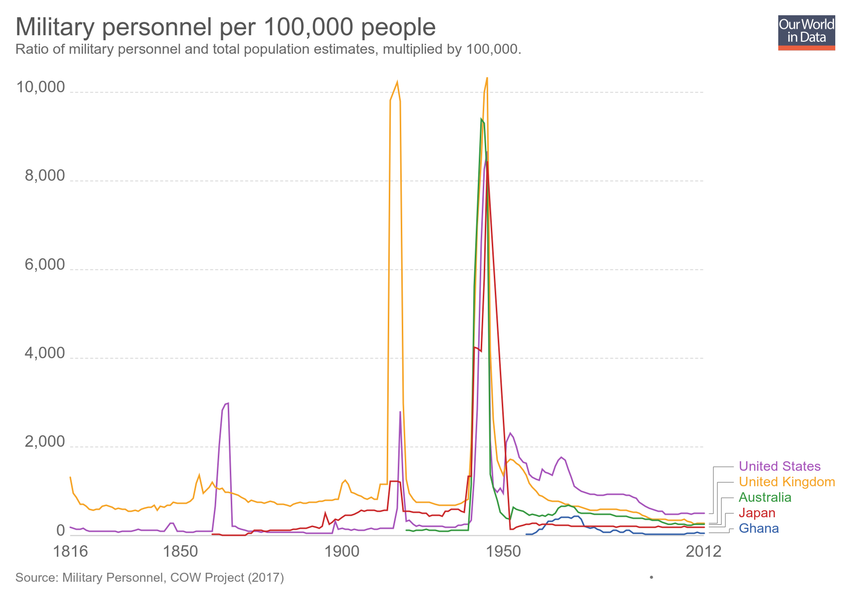
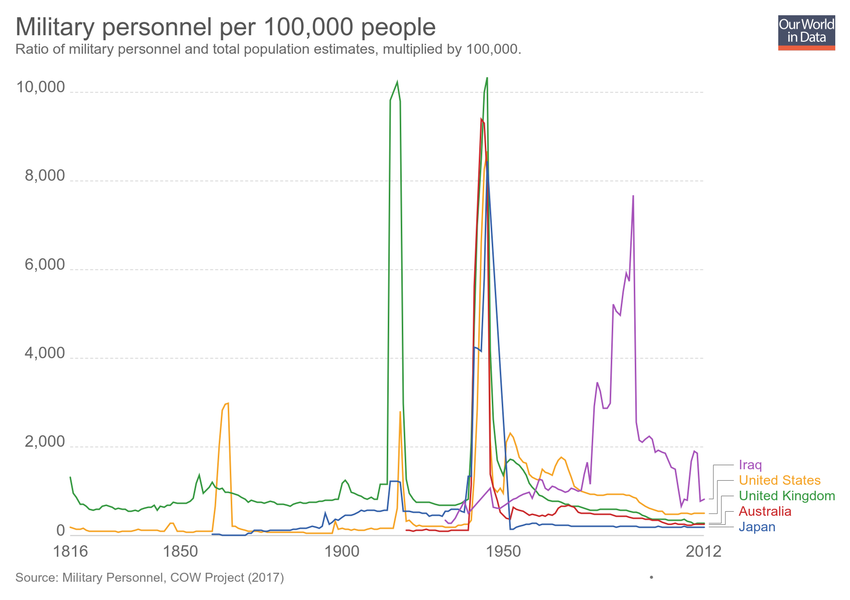
Updating chart military-personnel-relative-to-total-population

diff --git a/grapher/hiv-expenditure.html b/grapher/hiv-expenditure.html
@@ -1,4 +1,4 @@
-<!doctype html><html><head><meta name="viewport" content="width=device-width, initial-scale=1" /><title>HIV expenditure on prevention and treatment - Our World in Data</title><meta name="description" content="Total expenditure on HIV/AIDS prevention and treatment, measured in US$." /><link rel="canonical" href="https://ourworldindata.org/grapher/hiv-expenditure" /><meta property="fb:app_id" content="1149943818390250" /><meta property="og:url" content="https://ourworldindata.org/grapher/hiv-expenditure" /><meta property="og:title" content="HIV expenditure on prevention and treatment" /><meta property="og:description" content="Total expenditure on HIV/AIDS prevention and treatment, measured in US$." /><meta property="og:image" content="https://ourworldindata.org/grapher/exports/hiv-expenditure.png?v=1" /><meta property="og:image:width" content="850" /><meta property="og:image:height" content="600" /><meta property="og:site_name" content="Our World in Data" /><meta name="twitter:card" content="summary_large_image" /><meta name="twitter:site" content="@OurWorldInData" /><meta name="twitter:creator" content="@OurWorldInData" /><meta name="twitter:title" content="HIV expenditure on prevention and treatment" /><meta name="twitter:description" content="Total expenditure on HIV/AIDS prevention and treatment, measured in US$." /><meta name="twitter:image" content="https://ourworldindata.org/grapher/exports/hiv-expenditure.png?v=1" /><style>
+<!doctype html><html><head><meta name="viewport" content="width=device-width, initial-scale=1" /><title>HIV expenditure - Our World in Data</title><meta name="description" content="Country-reported HIV expenditure, measured in current US$ per year. The year of reported expenditure varies by country; this information can be found by hovering over a given country." /><link rel="canonical" href="https://ourworldindata.org/grapher/hiv-expenditure" /><meta property="fb:app_id" content="1149943818390250" /><meta property="og:url" content="https://ourworldindata.org/grapher/hiv-expenditure" /><meta property="og:title" content="HIV expenditure" /><meta property="og:description" content="Country-reported HIV expenditure, measured in current US$ per year. The year of reported expenditure varies by country; this information can be found by hovering over a given country." /><meta property="og:image" content="https://ourworldindata.org/grapher/exports/hiv-expenditure.png?v=1" /><meta property="og:image:width" content="850" /><meta property="og:image:height" content="600" /><meta property="og:site_name" content="Our World in Data" /><meta name="twitter:card" content="summary_large_image" /><meta name="twitter:site" content="@OurWorldInData" /><meta name="twitter:creator" content="@OurWorldInData" /><meta name="twitter:title" content="HIV expenditure" /><meta name="twitter:description" content="Country-reported HIV expenditure, measured in current US$ per year. The year of reported expenditure varies by country; this information can be found by hovering over a given country." /><meta name="twitter:image" content="https://ourworldindata.org/grapher/exports/hiv-expenditure.png?v=1" /><style>
         html, body {
             height: 100%;
             margin: 0;
@@ -20,19 +20,8 @@
         }
     </style><noscript><style>
                     figure { display: none !important; }
-                </style></noscript><link rel="stylesheet" href="https://ourworldindata.org/grapher/assets/commons.bundle.62f8703dfc964fd3975c.css" /><link rel="preload" href="/grapher/data/variables/96328.json?v=1" as="fetch" crossorigin /></head><body class="singleChart"><figure data-grapher-src="/grapher/hiv-expenditure"></figure><noscript id="fallback"><img src="/grapher/exports/hiv-expenditure.svg" /><p>Interactive visualization requires JavaScript</p></noscript><script src="https://cdn.polyfill.io/v2/polyfill.min.js?features=es6,fetch"></script><script src="https://ourworldindata.org/grapher/assets/commons.bundle.62f8703dfc964fd3975c.js"></script><script src="https://ourworldindata.org/grapher/assets/charts.bundle.dcf65b68eddaba4c6a58.js"></script><script>
-        var jsonConfig = {"map":{"projection":"World","targetYear":2015,"variableId":96328,"timeTolerance":3,"baseColorScheme":"YlGnBu","isManualBuckets":true,"colorSchemeLabels":[],"colorSchemeValues":[50000000,100000000,150000000,200000000,250000000,300000000,350000000,400000000],"defaultProjection":"World","colorSchemeMinValue":0,"customNumericColors":[null,null],"customCategoryColors":{},"customCategoryLabels":{},"customHiddenCategories":{}},"tab":"map","slug":"hiv-expenditure","type":"LineChart","title":"HIV expenditure on prevention and treatment","xAxis":{"scaleType":"linear"},"yAxis":{"min":0,"scaleType":"linear"},"version":1,"subtitle":"Total expenditure on HIV/AIDS prevention and treatment, measured in US$.","hasMapTab":true,"stackMode":"absolute","dimensions":[{"display":{"shortUnit":"$"},"property":"y","variableId":96328}],"hasChartTab":true,"isPublished":true,"selectedData":[{"index":0,"entityId":123},{"index":0,"entityId":237},{"index":0,"entityId":95}],"addCountryMode":"add-country","id":2488};
-        var figure = document.getElementsByTagName("figure")[0];
-        try {
-            window.App = {};
-            window.Global = { rootUrl: 'https://ourworldindata.org/grapher' };
-            ChartView.bootstrap({ jsonConfig: jsonConfig, containerNode: figure })
-        } catch (err) {
-            figure.innerHTML = "<img src=\"/grapher/exports/hiv-expenditure.svg\"/><p>Unable to load interactive visualization</p>";
-            figure.setAttribute("id", "fallback");
-            throw err;
-        }
-    </script></body></html>d":219},{"index":0,"entityId":23},{"index":0,"entityId":25},{"index":0,"entityId":26},{"index":0,"entityId":28},{"index":0,"entityId":29},{"index":0,"entityId":30},{"index":0,"entityId":4},{"index":0,"entityId":31},{"index":0,"entityId":32},{"index":0,"entityId":34},{"index":0,"entityId":35},{"index":0,"entityId":36},{"index":0,"entityId":37},{"index":0,"entityId":39},{"index":0,"entityId":40},{"index":0,"entityId":41},{"index":0,"entityId":18581},{"index":0,"entityId":42},{"index":0,"entityId":43},{"index":0,"entityId":174},{"index":0,"entityId":173},{"index":0,"entityId":172},{"index":0,"entityId":171},{"index":0,"entityId":170},{"index":0,"entityId":169},{"index":0,"entityId":168},{"index":0,"entityId":166},{"index":0,"entityId":143}],"addCountryMode":"add-country","hideTitleAnnotation":true,"id":2293};
+                </style></noscript><link rel="stylesheet" href="https://ourworldindata.org/grapher/assets/commons.bundle.62f8703dfc964fd3975c.css" /><link rel="preload" href="/grapher/data/variables/85855.json?v=1" as="fetch" crossorigin /></head><body class="singleChart"><figure data-grapher-src="/grapher/hiv-expenditure"></figure><noscript id="fallback"><img src="/grapher/exports/hiv-expenditure.svg" /><p>Interactive visualization requires JavaScript</p></noscript><script src="https://cdn.polyfill.io/v2/polyfill.min.js?features=es6,fetch"></script><script src="https://ourworldindata.org/grapher/assets/commons.bundle.62f8703dfc964fd3975c.js"></script><script src="https://ourworldindata.org/grapher/assets/charts.bundle.dcf65b68eddaba4c6a58.js"></script><script>
+        var jsonConfig = {"map":{"projection":"World","targetYear":2016,"variableId":85855,"equalSizeBins":true,"timeTolerance":5,"baseColorScheme":"Purples","isManualBuckets":true,"colorSchemeLabels":[],"colorSchemeValues":[50000000,100000000,200000000,300000000,400000000,500000000,750000000,1000000000],"defaultProjection":"World","colorSchemeMinValue":0,"customNumericColors":[null,null],"customCategoryColors":{},"customCategoryLabels":{},"customHiddenCategories":{}},"tab":"map","slug":"hiv-expenditure","type":"LineChart","title":"HIV expenditure","xAxis":{"scaleType":"linear"},"yAxis":{"min":0,"scaleType":"linear"},"version":1,"subtitle":"Country-reported HIV expenditure, measured in current US$ per year. The year of reported expenditure varies by country; this information can be found by hovering over a given country.","hasMapTab":true,"stackMode":"absolute","dimensions":[{"display":{},"property":"y","variableId":85855}],"isAutoSlug":true,"sourceDesc":"UNAIDS","hasChartTab":false,"isPublished":true,"selectedData":[{"index":0,"entityId":84},{"index":0,"entityId":233},{"index":0,"entityId":229},{"index":0,"entityId":15},{"index":0,"entityId":16},{"index":0,"entityId":17},{"index":0,"entityId":19},{"index":0,"entityId":20},{"index":0,"entityId":21},{"index":0,"entityId":22},{"index":0,"entityId":219},{"index":0,"entityId":23},{"index":0,"entityId":25},{"index":0,"entityId":26},{"index":0,"entityId":28},{"index":0,"entityId":29},{"index":0,"entityId":30},{"index":0,"entityId":4},{"index":0,"entityId":31},{"index":0,"entityId":32},{"index":0,"entityId":34},{"index":0,"entityId":35},{"index":0,"entityId":36},{"index":0,"entityId":37},{"index":0,"entityId":39},{"index":0,"entityId":40},{"index":0,"entityId":41},{"index":0,"entityId":18581},{"index":0,"entityId":42},{"index":0,"entityId":43},{"index":0,"entityId":174},{"index":0,"entityId":173},{"index":0,"entityId":172},{"index":0,"entityId":171},{"index":0,"entityId":170},{"index":0,"entityId":169},{"index":0,"entityId":168},{"index":0,"entityId":166},{"index":0,"entityId":143}],"addCountryMode":"add-country","hideTitleAnnotation":true,"id":2293};
         var figure = document.getElementsByTagName("figure")[0];
         try {
             window.App = {};

diff --git a/grapher/military-personnel-relative-to-total-population.html b/grapher/military-personnel-relative-to-total-population.html
@@ -1,4 +1,4 @@
-<!doctype html><html><head><meta name="viewport" content="width=device-width, initial-scale=1" /><title>Military personnel per 100,000 people - Our World in Data</title><meta name="description" content="Ratio of military personnel and total population estimates, multiplied by 100,000." /><link rel="canonical" href="https://ourworldindata.org/grapher/military-personnel-relative-to-total-population" /><meta property="fb:app_id" content="1149943818390250" /><meta property="og:url" content="https://ourworldindata.org/grapher/military-personnel-relative-to-total-population" /><meta property="og:title" content="Military personnel per 100,000 people" /><meta property="og:description" content="Ratio of military personnel and total population estimates, multiplied by 100,000." /><meta property="og:image" content="https://ourworldindata.org/grapher/exports/military-personnel-relative-to-total-population.png?v=8" /><meta property="og:image:width" content="850" /><meta property="og:image:height" content="600" /><meta property="og:site_name" content="Our World in Data" /><meta name="twitter:card" content="summary_large_image" /><meta name="twitter:site" content="@OurWorldInData" /><meta name="twitter:creator" content="@OurWorldInData" /><meta name="twitter:title" content="Military personnel per 100,000 people" /><meta name="twitter:description" content="Ratio of military personnel and total population estimates, multiplied by 100,000." /><meta name="twitter:image" content="https://ourworldindata.org/grapher/exports/military-personnel-relative-to-total-population.png?v=8" /><style>
+<!doctype html><html><head><meta name="viewport" content="width=device-width, initial-scale=1" /><title>Military personnel per 100,000 people - Our World in Data</title><meta name="description" content="Ratio of military personnel and total population estimates, multiplied by 100,000." /><link rel="canonical" href="https://ourworldindata.org/grapher/military-personnel-relative-to-total-population" /><meta property="fb:app_id" content="1149943818390250" /><meta property="og:url" content="https://ourworldindata.org/grapher/military-personnel-relative-to-total-population" /><meta property="og:title" content="Military personnel per 100,000 people" /><meta property="og:description" content="Ratio of military personnel and total population estimates, multiplied by 100,000." /><meta property="og:image" content="https://ourworldindata.org/grapher/exports/military-personnel-relative-to-total-population.png?v=9" /><meta property="og:image:width" content="850" /><meta property="og:image:height" content="600" /><meta property="og:site_name" content="Our World in Data" /><meta name="twitter:card" content="summary_large_image" /><meta name="twitter:site" content="@OurWorldInData" /><meta name="twitter:creator" content="@OurWorldInData" /><meta name="twitter:title" content="Military personnel per 100,000 people" /><meta name="twitter:description" content="Ratio of military personnel and total population estimates, multiplied by 100,000." /><meta name="twitter:image" content="https://ourworldindata.org/grapher/exports/military-personnel-relative-to-total-population.png?v=9" /><style>
         html, body {
             height: 100%;
             margin: 0;
@@ -20,8 +20,8 @@
         }
     </style><noscript><style>
                     figure { display: none !important; }
-                </style></noscript><link rel="stylesheet" href="https://ourworldindata.org/grapher/assets/commons.bundle.62f8703dfc964fd3975c.css" /><link rel="preload" href="/grapher/data/variables/96657.json?v=8" as="fetch" crossorigin /></head><body class="singleChart"><figure data-grapher-src="/grapher/military-personnel-relative-to-total-population"></figure><noscript id="fallback"><img src="/grapher/exports/military-personnel-relative-to-total-population.svg" /><p>Interactive visualization requires JavaScript</p></noscript><script src="https://cdn.polyfill.io/v2/polyfill.min.js?features=es6,fetch"></script><script src="https://ourworldindata.org/grapher/assets/commons.bundle.62f8703dfc964fd3975c.js"></script><script src="https://ourworldindata.org/grapher/assets/charts.bundle.dcf65b68eddaba4c6a58.js"></script><script>
-        var jsonConfig = {"id":2565,"map":{"projection":"World","targetYear":2012,"variableId":96657,"binStepSize":100,"baseColorScheme":"Reds","colorSchemeLabels":[],"colorSchemeValues":[],"colorSchemeMinValue":0,"customNumericColors":[],"customCategoryColors":{},"customCategoryLabels":{},"customHiddenCategories":{}},"tab":"chart","slug":"military-personnel-relative-to-total-population","type":"LineChart","title":"Military personnel per 100,000 people","xAxis":{"scaleType":"linear"},"yAxis":{"min":0,"scaleType":"linear"},"version":8,"subtitle":"Ratio of military personnel and total population estimates, multiplied by 100,000.","hasMapTab":true,"stackMode":"absolute","dimensions":[{"display":{"unit":"per 100,000 people","numDecimalPlaces":0},"property":"y","variableId":96657}],"hasChartTab":true,"isPublished":true,"selectedData":[{"index":0,"entityId":13},{"index":0,"entityId":1},{"index":0,"entityId":23},{"index":0,"entityId":150},{"index":0,"entityId":14}],"addCountryMode":"add-country"};
+                </style></noscript><link rel="stylesheet" href="https://ourworldindata.org/grapher/assets/commons.bundle.62f8703dfc964fd3975c.css" /><link rel="preload" href="/grapher/data/variables/96657.json?v=9" as="fetch" crossorigin /></head><body class="singleChart"><figure data-grapher-src="/grapher/military-personnel-relative-to-total-population"></figure><noscript id="fallback"><img src="/grapher/exports/military-personnel-relative-to-total-population.svg" /><p>Interactive visualization requires JavaScript</p></noscript><script src="https://cdn.polyfill.io/v2/polyfill.min.js?features=es6,fetch"></script><script src="https://ourworldindata.org/grapher/assets/commons.bundle.62f8703dfc964fd3975c.js"></script><script src="https://ourworldindata.org/grapher/assets/charts.bundle.dcf65b68eddaba4c6a58.js"></script><script>
+        var jsonConfig = {"id":2565,"map":{"projection":"World","targetYear":2012,"variableId":96657,"binStepSize":100,"baseColorScheme":"Reds","colorSchemeLabels":[],"colorSchemeValues":[],"colorSchemeMinValue":0,"customNumericColors":[],"customCategoryColors":{},"customCategoryLabels":{},"customHiddenCategories":{}},"tab":"chart","slug":"military-personnel-relative-to-total-population","type":"LineChart","title":"Military personnel per 100,000 people","xAxis":{"scaleType":"linear"},"yAxis":{"min":0,"scaleType":"linear"},"version":9,"subtitle":"Ratio of military personnel and total population estimates, multiplied by 100,000.","hasMapTab":true,"stackMode":"absolute","dimensions":[{"display":{"unit":"per 100,000 people","numDecimalPlaces":0},"property":"y","variableId":96657}],"hasChartTab":true,"isPublished":true,"selectedData":[{"index":0,"entityId":13},{"index":0,"entityId":1},{"index":0,"entityId":23},{"index":0,"entityId":14},{"index":0,"entityId":134}],"addCountryMode":"add-country"};
         var figure = document.getElementsByTagName("figure")[0];
         try {
             window.App = {};
